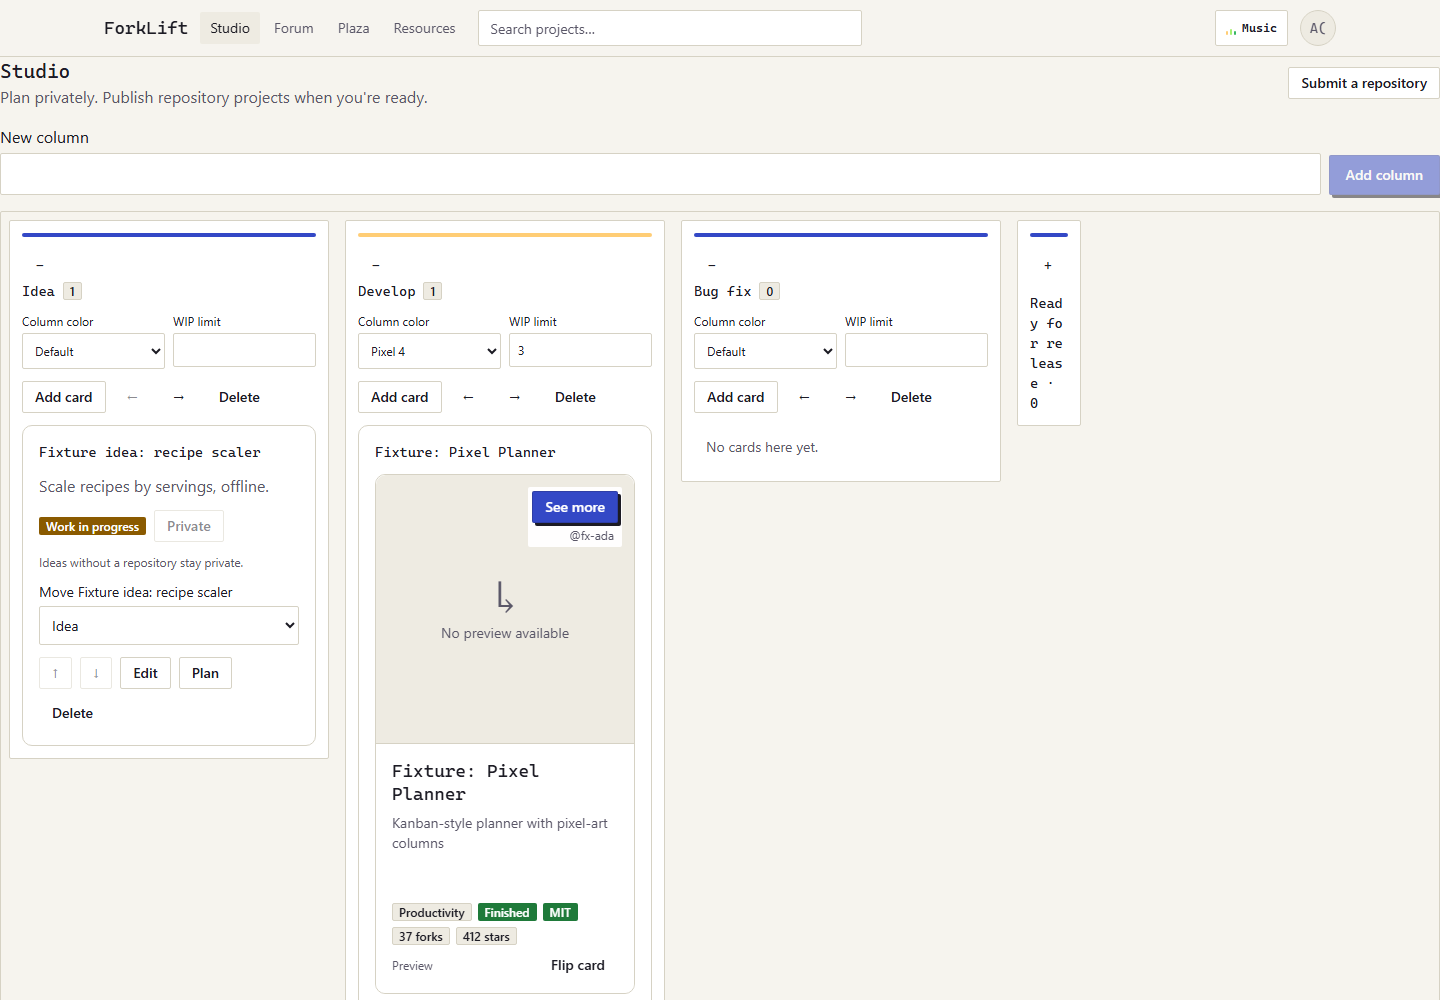
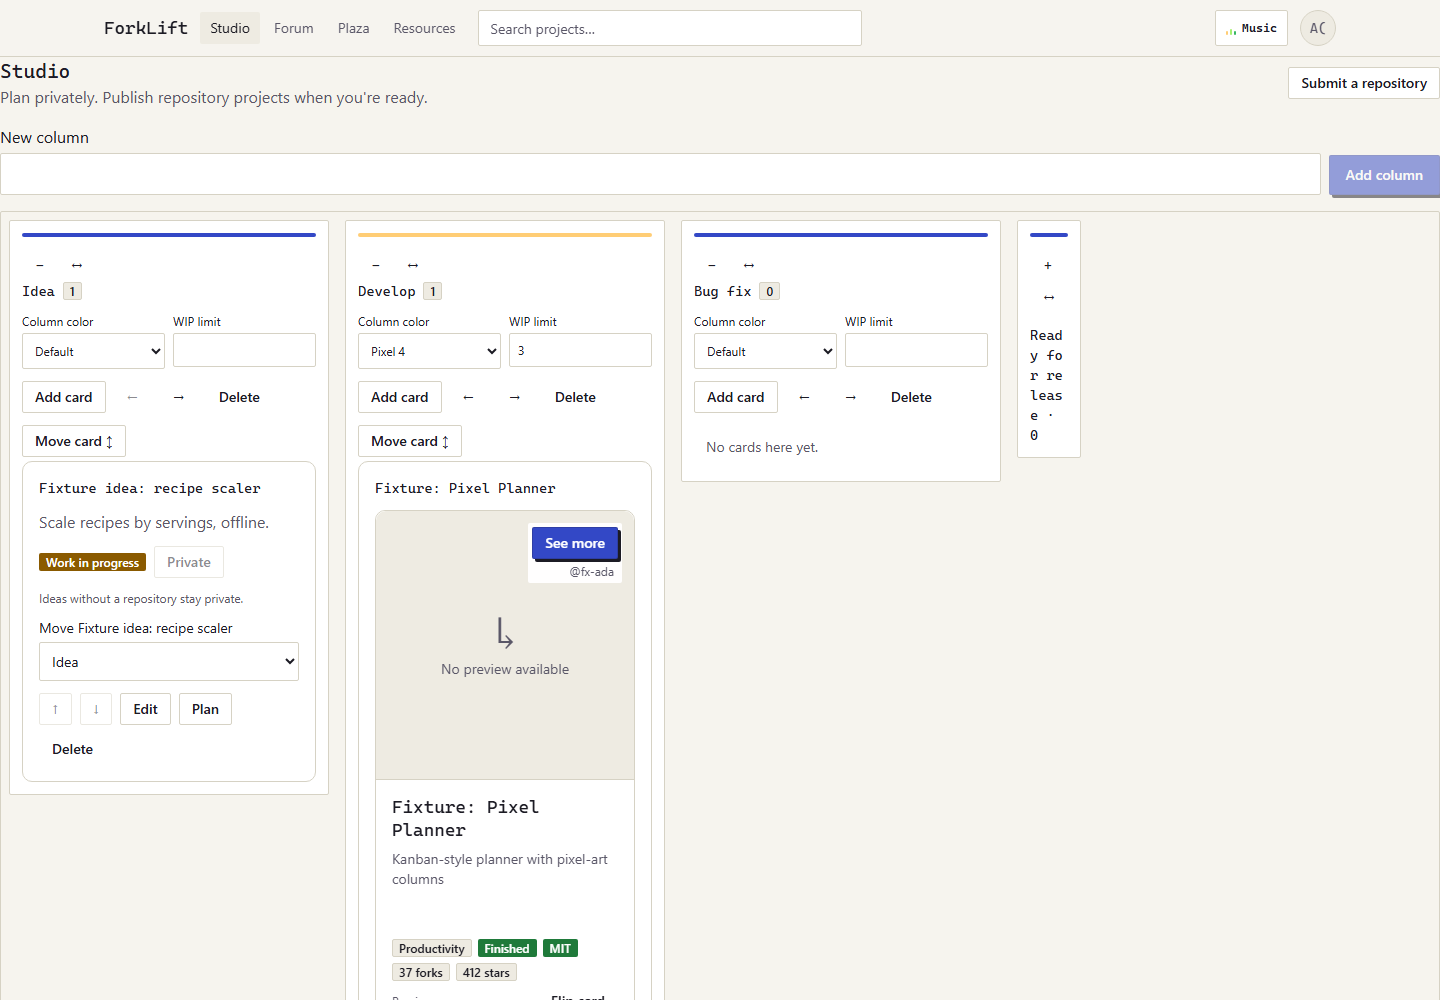
[2.6] Verify keyboard and pointer drag, add handoff

diff --git a/apps/web/src/features/studio/BoardDrag.tsx b/apps/web/src/features/studio/BoardDrag.tsx
@@ -1,5 +1,5 @@
 import { createContext, useContext, type ReactNode } from "react";
-import { DndContext, PointerSensor, KeyboardSensor, useSensor, useSensors, closestCorners, useDroppable, type KeyboardCoordinateGetter } from "@dnd-kit/core";
+import { DndContext, PointerSensor, KeyboardSensor, useSensor, useSensors, closestCorners, closestCenter, useDroppable, type KeyboardCoordinateGetter } from "@dnd-kit/core";
 import { SortableContext, useSortable, horizontalListSortingStrategy, verticalListSortingStrategy } from "@dnd-kit/sortable";
 import type { Board, BoardCard, BoardColumn } from "@forkvlift/shared";
 import { Button } from "@forkvlift/ui";
@@ -29,7 +29,7 @@ export function BoardDrag({board,disabled,move,reorder,children}:{board:Board;di
     if(rect)return {x:currentCoordinates.x+rect.left+rect.width/2-collisionRect.left-collisionRect.width/2,y:currentCoordinates.y+rect.top+rect.height/2-collisionRect.top-collisionRect.height/2};
   };
   const sensors=useSensors(useSensor(PointerSensor,{activationConstraint:{distance:8}}),useSensor(KeyboardSensor,{coordinateGetter:keyboard}));
-  return <Busy.Provider value={disabled}><DndContext sensors={sensors} collisionDetection={args=>closestCorners({...args,droppableContainers:args.droppableContainers.filter(c=>args.active.data.current?.kind==='column'?c.data.current?.kind==='column':c.data.current?.kind!=='column')})}
+  return <Busy.Provider value={disabled}><DndContext sensors={sensors} collisionDetection={args=>(args.active.data.current?.kind === "column" ? closestCenter : closestCorners)({...args,droppableContainers:args.droppableContainers.filter(c=>args.active.data.current?.kind==='column'?c.data.current?.kind==='column':c.data.current?.kind!=='column')})}
     accessibility={{screenReaderInstructions:{draggable:'Press Space to pick up. Use arrow keys to move. Press Space to drop, or Escape to cancel.'}}}
     onDragEnd={({active,over})=>{if(disabled||!over||active.id===over.id)return;const from=active.data.current,to=over.data.current;if(from?.kind==='column'){const ids=columns.map(c=>c.id);const start=ids.indexOf(String(from.columnId)),end=ids.indexOf(String(to?.columnId));if(start<0||end<0)return;ids.splice(end,0,ids.splice(start,1)[0]!);reorder(ids);}else if(from?.kind==='card'&&to?.columnId){const target=board.cards.find(c=>`card:${c.id}`===String(over.id));const pos=target?.position??board.cards.filter(c=>c.columnId===to.columnId&&c.id!==from.cardId).length;move(String(from.cardId),String(to.columnId),pos);}}}>
     <SortableContext items={columns.map(c=>`column:${c.id}`)} strategy={horizontalListSortingStrategy}>{children}</SortableContext>

diff --git a/e2e/studio-board.spec.ts b/e2e/studio-board.spec.ts
@@ -59,3 +59,20 @@ test('board loading, error retry, empty and own unlicensed project',async({page}
   await page.route('**/api/studio/board',async route=>{const board=await(await route.fetch()).json();board.cards[1].project=project;await route.fulfill({json:board});}); await page.reload();
   await expect(page.getByText('No license: all rights reserved.',{exact:true})).toBeVisible(); await page.screenshot({path:`docs/handoffs/screenshots/2.6-${info.project.name}-no-license.png`});
 });
+
+test('keyboard pickup, cancel, cross-column drop and column reorder; desktop mouse drag',async({page},info)=>{
+  await page.goto('/api/dev/login?as=fx-ada'); await page.goto('/studio');
+  const handle=page.getByRole('button',{name:'Drag card Fixture idea: recipe scaler',exact:true});
+  await handle.press('Space'); await handle.press('ArrowRight'); await handle.press('Escape');
+  await expect(page.getByRole('region',{name:'Column Idea',exact:true})).toContainText('Fixture idea: recipe scaler');
+  await handle.press('Space'); await handle.press('ArrowRight'); await handle.press('Space');
+  await expect(page.getByRole('region',{name:'Column Develop',exact:true})).toContainText('Fixture idea: recipe scaler');
+  await expect(page.getByText('Card moved.',{exact:true})).toBeVisible();
+  const col=page.getByRole('button',{name:'Drag column Idea',exact:true}); await col.press('Space'); await col.press('ArrowRight'); await col.press('Space');
+  await expect(page.getByRole('region',{name:/Column /}).first()).toHaveAccessibleName('Column Develop');
+  if(info.project.name==='desktop') {
+    await page.reload(); const from=await page.getByRole('button',{name:'Drag card Fixture idea: recipe scaler',exact:true}).boundingBox(); const to=await page.getByRole('region',{name:'Column Bug fix',exact:true}).boundingBox();
+    await page.mouse.move(from!.x+from!.width/2,from!.y+from!.height/2); await page.mouse.down(); await page.mouse.move(to!.x+to!.width/2,to!.y+to!.height/2,{steps:20}); await page.mouse.up();
+    await expect(page.getByRole('region',{name:'Column Bug fix',exact:true})).toContainText('Fixture idea: recipe scaler');
+  }
+});

diff --git a/docs/handoffs/2.6-kanban-board.md b/docs/handoffs/2.6-kanban-board.md
@@ -1,0 +1,29 @@
+# 2.6 Studio kanban board
+
+## Changes
+Private authenticated board at /studio using the typed Studio API. Pointer/touch handles and keyboard drag (Space/Enter, arrows, drop; Escape cancels) move cards and reorder columns. Explicit move selects and reorder buttons provide an alternative. Moves and column reorder are optimistic, serialized while saving, and roll back on API errors including WIP-limit 409s.
+
+Columns support inline rename, collapse to a slim strip, pixel-0 through pixel-15 colors, add/delete and WIP limits with warnings. Cards support private ideas or links to your listed projects, title/idea/stage editing, deletion, and Public/Private toggles; repository-free ideas cannot be published. Linked projects reuse ProjectCard. A feature-local includeUnlicensed option allows owner-only Studio views to show their unlicensed work while public lists retain the preference filter. No shared entity fields were added.
+
+The dnd-kit dependencies were requested first and added by Opus in contracts PR #28. Sortable animation is disabled under motionReduced; card flips already use the reduced-motion preference. Publishing and WIP-limit enforcement remain authoritative on the backend.
+
+## Validation
+- pnpm check passed (typecheck, lint, unit/integration tests, builds and fixture exclusion).
+- pnpm test:e2e studio-board --workers=2: 10 passed at 375 and 1440 px, including pointer/keyboard drag, cancellation, column/card lifecycle, visibility, WIP warnings, loading/empty/error, own unlicensed cards, and optimistic rollback/retry.
+- Computer use: verified loading/error/empty and collapse/expand at both widths, keyboard cross-column move, and mouse drag/drop in the running app.
+
+Run pnpm dev, sign in at /api/dev/login?as=fx-ada and visit /studio. Use the drag handles, title buttons, color/limit controls and card menus. Fixtures are stateless: reload returns the original board; local cache retains confirmed edits until reload. The backend's real D1 persistence is separately covered by Opus's 2.1 integration tests.
+
+## Screenshots
+| State | 375 px | 1440 px |
+| --- | --- | --- |
+| Board | [Phone](screenshots/2.6-phone-board.png) | [Desktop](screenshots/2.6-desktop-board.png) |
+| WIP limit | [Phone](screenshots/2.6-phone-wip.png) | [Desktop](screenshots/2.6-desktop-wip.png) |
+| No license | [Phone](screenshots/2.6-phone-no-license.png) | [Desktop](screenshots/2.6-desktop-no-license.png) |
+| Signed out | [Phone](screenshots/2.6-phone-signed-out.png) | [Desktop](screenshots/2.6-desktop-signed-out.png) |
+| Loading | [Phone](screenshots/2.6-phone-loading.png) | [Desktop](screenshots/2.6-desktop-loading.png) |
+| Error | [Phone](screenshots/2.6-phone-error.png) | [Desktop](screenshots/2.6-desktop-error.png) |
+| Empty | [Phone](screenshots/2.6-phone-empty.png) | [Desktop](screenshots/2.6-desktop-empty.png) |
+
+## Next task
+The Plan link opens /studio/cards/:id/plan, implemented in task 2.7. Card movements preserve dense positions; deletion is authoritative on the server and remaining cards retain their relative order in the cache. Source/clone/license rules stay in the shared ProjectCard behavior.
